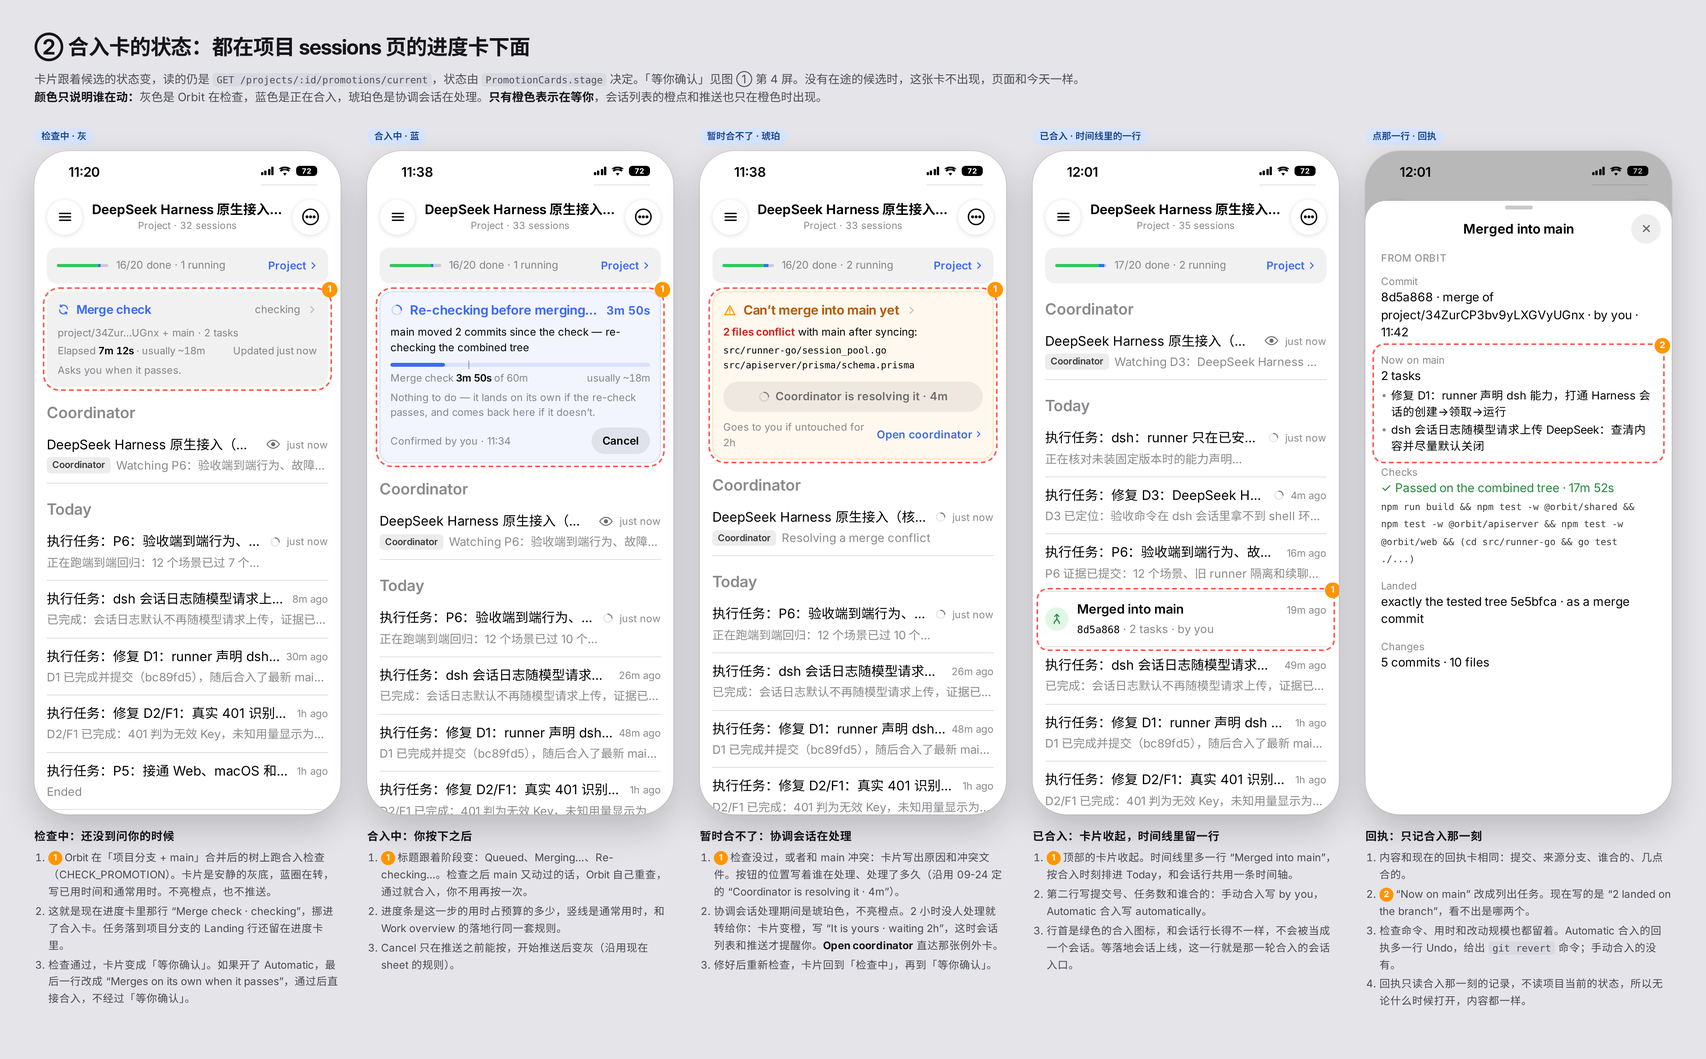
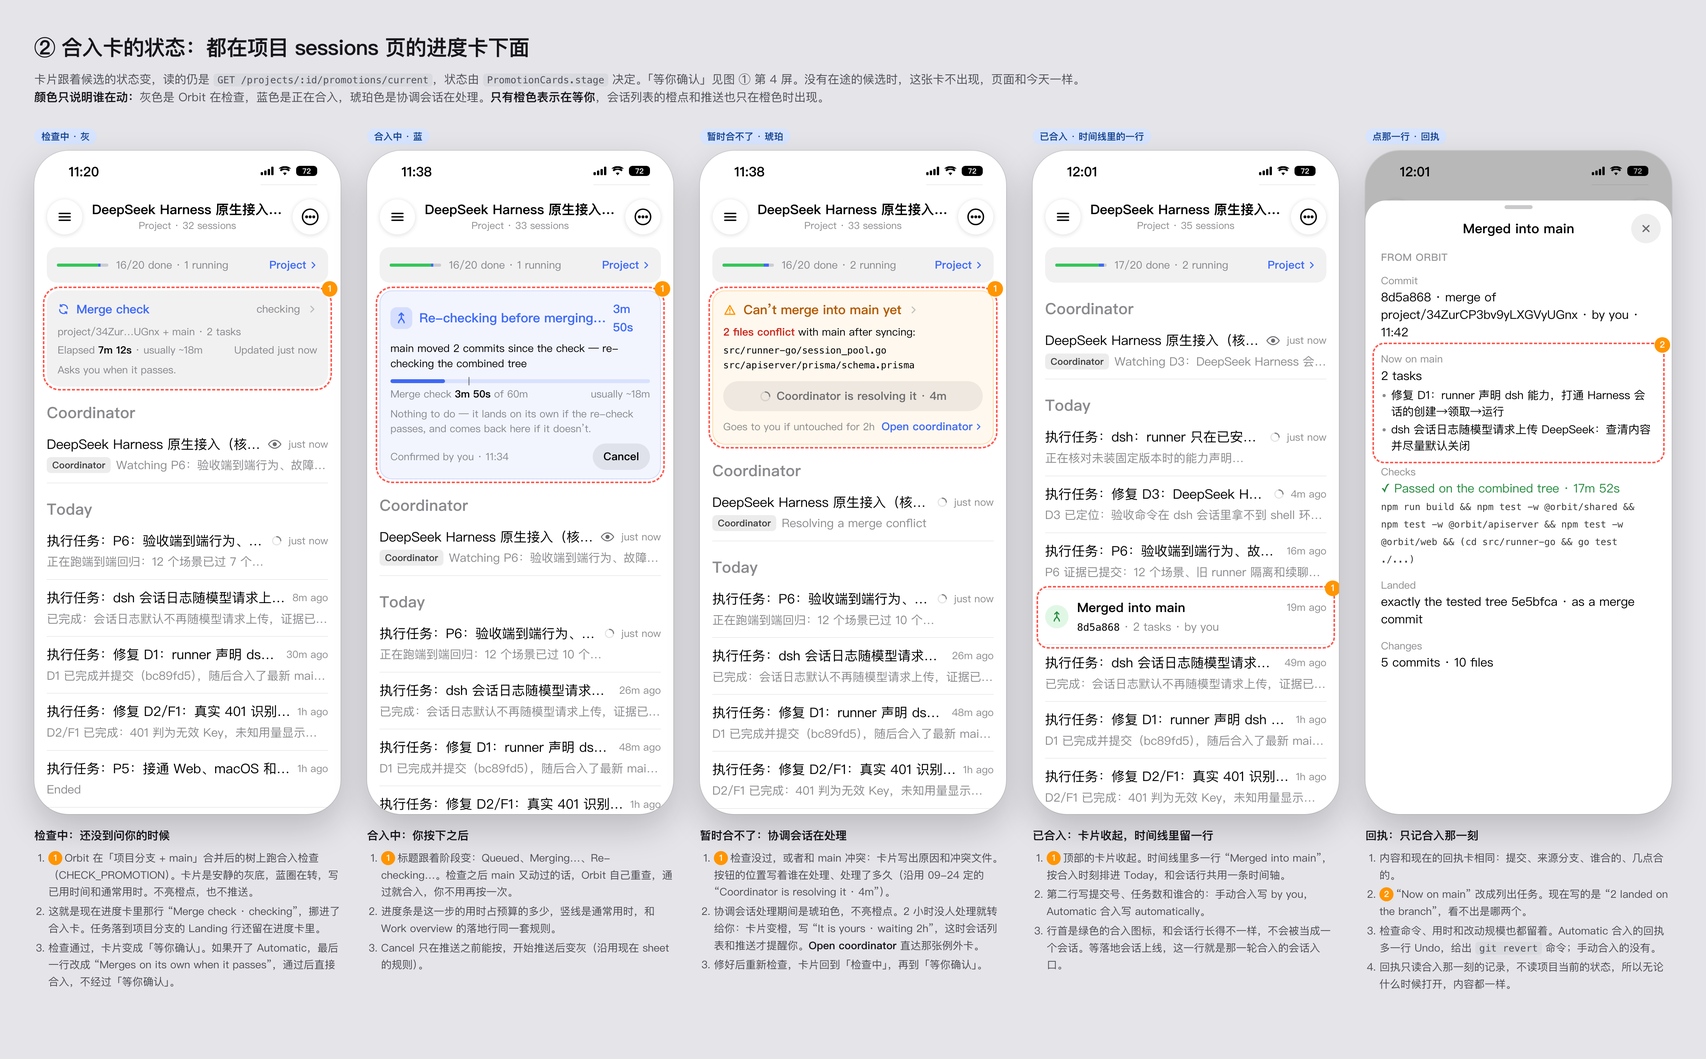
fix(ios,web): the merging card's head wears the merge mark, not a second spinner
The merging moment drew two spinning marks at once: `header(symbol: nil)` put SwiftUI's
`ProgressView` — UIKit's activity indicator on iOS — in the head, and the landing row below it drew
`ProjectLandingRow`'s arrowed ring, the project page's Integrating mark, turning at its own 1.6s.
Two spinners, two shapes, two speeds, forty points apart — and the head's said nothing the card was
not already saying three other ways: the title, `confirmed — fetching the branches`, and the row's
word beside `fetching`.

The head now wears what the asking and blocked moments wear — `arrow.triangle.merge` in the tint's
tile — so the card keeps one moving mark (the landing row's ring, which is also what the checking
moment is drawn from) and the head keeps one vocabulary across the card's four moments. `header`'s
spinner branch went with it: no caller passed `symbol: nil` any more. Web's `ProjectMergeStrip` gets
the same treatment, its merging head drawing the asking head's tile and `MergeGlyph`, with
`.is-merging` tinting the tile brand-blue rather than warning-orange.

Owner decision 2026-10-07, taken from `docs/mocks/project-merge-sessions-page/05-spinner-options.html`
(the four-way board; this is A). Board 02's merging card follows, and
`SessionProjectPageWiringTests.testTheMergingCardsHeadCarriesTheMergeMarkRatherThanASpinner` pins it.

diff --git a/docs/mocks/project-merge-sessions-page/05-spinner-options.html b/docs/mocks/project-merge-sessions-page/05-spinner-options.html
@@ -1,0 +1,158 @@
+<!doctype html><html lang="zh"><meta charset="utf-8">
+<title>合入卡的转圈：四种改法</title>
+<style>
+/* 2026-10-07 · 「合入卡上两个转圈」的候选改法。深色，与 iOS 截图同一套颜色。
+   这一页刻意不依赖 kit.css：它要画的是 iOS 上的暗色卡，不是浅色图板。 */
+:root {
+  --accent: #5B8CFF; --accent-bg: rgba(91,140,255,.16);
+  --label: #fff; --l2: rgba(235,235,245,.6); --l3: rgba(235,235,245,.32);
+  --card: #0F1626; --line: rgba(91,140,255,.34); --panel: #0A0A0C;
+}
+* { box-sizing: border-box; }
+body { margin: 0; padding: 36px 40px 64px; background: var(--panel); color: var(--label); width: max-content;
+       font: 15px/1.55 -apple-system, "SF Pro Text", "Noto Sans SC", sans-serif; -webkit-font-smoothing: antialiased; }
+h1 { font-size: 25px; letter-spacing: -.02em; margin: 0 0 8px; }
+.lede { color: var(--l2); margin: 0 0 30px; max-width: 1500px; font-size: 15px; }
+.lede b { color: var(--label); }
+code { font: 12.5px ui-monospace, "SF Mono", monospace; background: rgba(235,235,245,.12); border-radius: 4px; padding: 1px 5px; }
+.row { display: flex; gap: 30px; align-items: flex-start; }
+
+/* ── 卡（与 iOS ProjectMergeCardView 的合入时刻同构） ───────── */
+.card { width: 340px; border-radius: 14px; padding: 12px; background: var(--card);
+        box-shadow: inset 0 0 0 1px var(--line); }
+.head { display: flex; align-items: center; gap: 8px; }
+.head .tile { width: 26px; height: 26px; border-radius: 7px; background: var(--accent-bg); color: var(--accent);
+              display: flex; align-items: center; justify-content: center; flex: none; }
+.head .slot { width: 26px; height: 26px; display: flex; align-items: center; justify-content: center; flex: none; }
+.head h2 { font-size: 16.5px; font-weight: 700; letter-spacing: -.01em; color: var(--accent); margin: 0; white-space: nowrap; }
+.status { font-size: 14px; color: var(--label); margin: 7px 0 0; }
+.lrow { margin-top: 9px; }
+.lrow .top { display: flex; align-items: center; gap: 8px; }
+.lrow .word { font-size: 13.5px; font-weight: 650; color: var(--accent); }
+.lrow .state { font-size: 12.5px; color: var(--l2); margin-left: auto; }
+.lrow .meta { display: flex; align-items: center; font-size: 12.5px; color: var(--l2); margin-top: 5px;
+              font-variant-numeric: tabular-nums; }
+.lrow .meta b { color: var(--accent); font-weight: 650; }
+.lrow .meta .u { margin-left: auto; }
+.note { font-size: 12.5px; color: var(--l2); margin-top: 8px; line-height: 1.45; }
+.foot { display: flex; justify-content: flex-end; margin-top: 11px; }
+.cancel { font-size: 14px; font-weight: 600; color: var(--accent); background: rgba(235,235,245,.14);
+          border-radius: 999px; padding: 7px 18px; }
+.dim { opacity: .45; }
+
+/* ── 图形与动效 ───────────────────────────────────────────── */
+svg.i { fill: none; stroke: currentColor; stroke-linecap: round; stroke-linejoin: round; display: block; flex: none; }
+/* 行内 spinner（SpinnerGlyph）：¾ 弧，0.85s 一圈 —— 会话行的「在跑」就是这个 */
+.arc { animation: spin .85s linear infinite; transform-origin: 50% 50%; }
+/* 项目页 Integrating 的环（arrow.triangle.2.circlepath）：1.6s 一圈 */
+.ring-run { animation: spin 1.6s linear infinite; transform-origin: 50% 50%; }
+@keyframes spin { to { transform: rotate(360deg); } }
+/* 系统的辐条转圈（UIActivityIndicatorView）：iOS 上 ProgressView 的样子 */
+.spokes { animation: spin 1s steps(12) infinite; transform-origin: 50% 50%; }
+@media (prefers-reduced-motion: reduce) { .arc, .ring-run, .spokes { animation: none; } }
+
+/* ── 图注 ─────────────────────────────────────────────────── */
+figure { margin: 0; width: 340px; flex: none; }
+.tag { display: inline-block; font-size: 12px; font-weight: 600; border-radius: 999px; padding: 1px 9px; margin-bottom: 9px; }
+.tag.pick { background: #14428f; color: #cfe0ff; }
+.tag.alt { background: rgba(235,235,245,.14); color: var(--l2); }
+.tag.now { background: #5c1a14; color: #ffb4ab; }
+figcaption { margin-top: 14px; font-size: 13px; line-height: 1.6; color: var(--l2); }
+figcaption > b { color: var(--label); display: block; font-size: 14.5px; margin-bottom: 5px; }
+figcaption ul { margin: 6px 0 0; padding-left: 17px; }
+figcaption li { margin: 3px 0; }
+figcaption li b { color: var(--label); }
+h3 { font-size: 17px; margin: 38px 0 14px; letter-spacing: -.01em; }
+.moment { display: flex; gap: 26px; align-items: flex-start; }
+.mini { width: 250px; }
+.mini .cap { font-size: 12.5px; color: var(--l2); margin-bottom: 8px; }
+</style>
+<body>
+<h1>合入卡的两个转圈：四种改法</h1>
+<p class="lede">
+每张图都是同一个时刻：<b>你按下 Merge to main 之后，runner 在 FETCH（fetching the branches）</b>。四张卡的内容一字不差，只有「谁在转、转的是哪个图形」不同。动效是真的在动（<code>0.85s</code> 是会话行那支弧，<code>1.6s</code> 是项目页 Integrating 的环，系统辐条是 <code>1s</code> 分十二档）。</p>
+
+<h3>先看这张卡在今天长什么样：四个时刻的头部</h3>
+<div class="moment">
+  <div class="mini"><div class="cap">asking —— 有色方块 + 静态图标</div>
+    <div class="card" style="box-shadow:inset 0 0 0 1px rgba(255,149,0,.35)">
+      <div class="head"><span class="tile" style="background:rgba(255,149,0,.16);color:#FF9500">
+        <svg class="i" viewBox="0 0 24 24" style="width:17px;height:17px;stroke-width:2.2"><path d="M8 7l4-4 4 4"/><path d="M12 3v8"/><path d="M12 11c0 3.5-5 4.5-5 9.5"/><path d="M12 11c0 3.5 5 4.5 5 9.5"/></svg></span>
+        <h2 style="color:#FFB340">Merge into main?</h2></div></div></div>
+  <div class="mini"><div class="cap">merging —— <b style="color:#ffb4ab">裸的系统转圈</b>（今天）</div>
+    <div class="card">
+      <div class="head"><span class="slot">
+        <svg class="i spokes" viewBox="0 0 24 24" style="width:19px;height:19px;stroke-width:2"><circle cx="12" cy="12" r="1.6" fill="currentColor" stroke="none"/><g stroke="none" fill="currentColor">
+          <rect x="11" y="1.5" width="2" height="5.6" rx="1" opacity="1"/><rect x="11" y="1.5" width="2" height="5.6" rx="1" opacity=".82" transform="rotate(30 12 12)"/><rect x="11" y="1.5" width="2" height="5.6" rx="1" opacity=".68" transform="rotate(60 12 12)"/><rect x="11" y="1.5" width="2" height="5.6" rx="1" opacity=".55" transform="rotate(90 12 12)"/><rect x="11" y="1.5" width="2" height="5.6" rx="1" opacity=".45" transform="rotate(120 12 12)"/><rect x="11" y="1.5" width="2" height="5.6" rx="1" opacity=".38" transform="rotate(150 12 12)"/><rect x="11" y="1.5" width="2" height="5.6" rx="1" opacity=".32" transform="rotate(180 12 12)"/><rect x="11" y="1.5" width="2" height="5.6" rx="1" opacity=".26" transform="rotate(210 12 12)"/><rect x="11" y="1.5" width="2" height="5.6" rx="1" opacity=".21" transform="rotate(240 12 12)"/><rect x="11" y="1.5" width="2" height="5.6" rx="1" opacity=".17" transform="rotate(270 12 12)"/><rect x="11" y="1.5" width="2" height="5.6" rx="1" opacity=".13" transform="rotate(300 12 12)"/><rect x="11" y="1.5" width="2" height="5.6" rx="1" opacity=".1" transform="rotate(330 12 12)"/></g></svg></span>
+        <h2>Merging into main…</h2></div></div></div>
+  <div class="mini"><div class="cap">blocked —— 有色方块 + 静态图标</div>
+    <div class="card" style="box-shadow:inset 0 0 0 1px rgba(255,149,0,.35)">
+      <div class="head"><span class="tile" style="background:rgba(255,149,0,.16);color:#FF9500">
+        <svg class="i" viewBox="0 0 24 24" style="width:17px;height:17px;stroke-width:2.2"><path d="M12 4l9 16H3z"/><path d="M12 10v4M12 17v.5"/></svg></span>
+        <h2 style="color:#FFB340">Can’t merge into main yet</h2></div></div></div>
+  <div class="mini"><div class="cap">checking —— 没有头部，只有落地行</div>
+    <div class="card">
+      <div class="lrow" style="margin-top:0">
+        <div class="top">
+          <svg class="i ring-run" viewBox="0 0 24 24" style="width:13px;height:13px;stroke-width:2.3;color:var(--accent)"><path d="M20 11a8 8 0 0 0-14.3-4.9"/><path d="M5.5 2.8v3.5H9"/><path d="M4 13a8 8 0 0 0 14.3 4.9"/><path d="M18.5 21.2v-3.5H15"/></svg>
+          <span class="word">Merge check</span><span class="state">checking</span></div>
+        <div class="meta"><span>Elapsed <b>7m 12s</b></span><span class="u">Updated just now</span></div></div></div></div>
+</div>
+
+<h3>四种改法（同一时刻，同一内容）</h3>
+<div class="row" id="figs"></div>
+
+<script>
+const CARD = (opts) => `<div class="card">
+  <div class="head">${opts.head}<h2>Merging into main…</h2></div>
+  <p class="status">confirmed — fetching the branches</p>
+  <div class="lrow"><div class="top">${opts.rowIcon}<span class="word">Merge to main</span><span class="state">fetching</span></div>
+    <div class="meta"><span>Elapsed <b>0m 14s</b></span><span class="u">Updated just now</span></div></div>
+  <p class="note">Nothing to do — it lands on its own if the re-check passes, and comes back here if it doesn’t.</p>
+  <div class="foot"><span class="cancel">Cancel</span></div></div>`;
+
+const MERGE = (s = 17, c = 'var(--accent)') => `<svg class="i" viewBox="0 0 24 24" style="width:${s}px;height:${s}px;stroke-width:2.2;color:${c}"><path d="M8 7l4-4 4 4"/><path d="M12 3v8"/><path d="M12 11c0 3.5-5 4.5-5 9.5"/><path d="M12 11c0 3.5 5 4.5 5 9.5"/></svg>`;
+const RING = (cls, c = 'var(--accent)') => `<svg class="i ${cls}" viewBox="0 0 24 24" style="width:13px;height:13px;stroke-width:2.3;color:${c}"><path d="M20 11a8 8 0 0 0-14.3-4.9"/><path d="M5.5 2.8v3.5H9"/><path d="M4 13a8 8 0 0 0 14.3 4.9"/><path d="M18.5 21.2v-3.5H15"/></svg>`;
+const ARC = (s = 19) => `<svg class="i arc" viewBox="0 0 24 24" style="width:${s}px;height:${s}px;stroke-width:2.2;color:var(--accent)"><circle cx="12" cy="12" r="9" stroke-opacity=".22"/><path d="M12 3a9 9 0 0 1 9 9"/></svg>`;
+const TILE = (inner) => `<span class="tile">${inner}</span>`;
+const SLOT = (inner) => `<span class="slot">${inner}</span>`;
+
+const options = [
+  { tag: 'pick', label: '方案 A · 推荐', title: '头部换回静态的合入图标，只留行里那个环',
+    card: CARD({ head: TILE(MERGE()), rowIcon: RING('ring-run') }),
+    cap: `<ul>
+      <li>头部回到和 asking / blocked 同一套：<b>有色方块 + 静态 SF Symbol</b>，整张卡在四个时刻之间切换时，头部形状不变、语言不变。</li>
+      <li>全卡<b>只有一个转圈</b>，就是项目页 Integrating 的那个环 —— 它旁边写着 <code>fetching</code>，转的同时说明"哪个作业、到哪一步"，不是空转。</li>
+      <li>checking 时刻这张卡本来就只有这一行，环在 merging 时刻继续转，视觉上是同一件东西在往前走。</li>
+      <li>代价：服务器还没报出 merge 作业的那一小段（<code>mergeLandingLine</code> 为 nil）行不画，这时头部是静态的，"在动"只剩 <code>Elapsed</code> 在走字。</li>
+    </ul>` },
+  { tag: 'alt', label: '方案 B', title: '头部留空，标题左对齐',
+    card: CARD({ head: '', rowIcon: RING('ring-run') }),
+    cap: `<ul>
+      <li>最省事的砍法，和 checking 时刻一致（那个时刻就没有头部）。</li>
+      <li>问题是标题的位置会跳：asking 有方块、merging 没有，<b>同一张卡的标题左右移动 34pt</b>，翻页时会看出来。</li>
+      <li>卡片头部少一个锚点，扫视时不好一眼认出这是合入卡。</li>
+    </ul>` },
+  { tag: 'alt', label: '方案 C', title: '头部换成会话行那支弧，行里的环改成不转',
+    card: CARD({ head: SLOT(ARC()), rowIcon: RING('', 'var(--l2)') }),
+    cap: `<ul>
+      <li>转的那支弧（<b>SpinnerGlyph</b>，0.85s）和会话列表里"正在跑"的行是同一个图形，全 app 的"在动"收敛到一支。</li>
+      <li>代价一：行的 <code>arrow.triangle.2.circlepath</code> 是项目页 Integrating 格子的标记，在项目页它转、在这里不转，同一个图形两种行为。</li>
+      <li>代价二：头部还是裸的，没有方块，仍是"这四个时刻里唯一一个不带方的"。</li>
+      <li>而且它和行里的环仍然<b>并排存在</b>，只是其中一个不动 —— 两个图形的对话没消失，只是少了一半动作。</li>
+    </ul>` },
+  { tag: 'now', label: '方案 D · 现状', title: '头部系统转圈 + 行里环转（不改）',
+    card: CARD({ head: SLOT(`<svg class="i spokes" viewBox="0 0 24 24" style="width:19px;height:19px;stroke-width:2;color:var(--accent)"><circle cx="12" cy="12" r="1.6" fill="currentColor" stroke="none"/><g stroke="none" fill="currentColor"><rect x="11" y="1.5" width="2" height="5.6" rx="1" opacity="1"/><rect x="11" y="1.5" width="2" height="5.6" rx="1" opacity=".82" transform="rotate(30 12 12)"/><rect x="11" y="1.5" width="2" height="5.6" rx="1" opacity=".68" transform="rotate(60 12 12)"/><rect x="11" y="1.5" width="2" height="5.6" rx="1" opacity=".55" transform="rotate(90 12 12)"/><rect x="11" y="1.5" width="2" height="5.6" rx="1" opacity=".45" transform="rotate(120 12 12)"/><rect x="11" y="1.5" width="2" height="5.6" rx="1" opacity=".38" transform="rotate(150 12 12)"/><rect x="11" y="1.5" width="2" height="5.6" rx="1" opacity=".32" transform="rotate(180 12 12)"/><rect x="11" y="1.5" width="2" height="5.6" rx="1" opacity=".26" transform="rotate(210 12 12)"/><rect x="11" y="1.5" width="2" height="5.6" rx="1" opacity=".21" transform="rotate(240 12 12)"/><rect x="11" y="1.5" width="2" height="5.6" rx="1" opacity=".17" transform="rotate(270 12 12)"/><rect x="11" y="1.5" width="2" height="5.6" rx="1" opacity=".13" transform="rotate(300 12 12)"/><rect x="11" y="1.5" width="2" height="5.6" rx="1" opacity=".1" transform="rotate(330 12 12)"/></g></svg>`), rowIcon: RING('ring-run') }),
+    cap: `<ul>
+      <li>两个圈：系统的（1s、十二档跳）和项目页的环（1.6s、匀速），转速和质感都不一样，挨在 40pt 内。</li>
+      <li>头部那个是 <code>ProgressView</code>：本仓库的 <code>SpinnerGlyph</code> 注释写过它在 <code>List</code> 行 detach / reattach 之后会画成空白，而这张卡正是 List 的一行。</li>
+      <li>它没有多说一个字：标题、状态行、行里的 word + state、走字的 Elapsed 已经四处说了同一件事。</li>
+    </ul>` },
+];
+
+document.getElementById('figs').innerHTML = options.map((o) =>
+  `<figure><span class="tag ${o.tag}">${o.label}</span>${o.card}
+   <figcaption><b>${o.title}</b>${o.cap}</figcaption></figure>`).join('');
+</script>
+</body>
+</html>

diff --git a/src/macos/OrbitApp/Sources/OrbitApp/Views/SessionProjectPage.swift b/src/macos/OrbitApp/Sources/OrbitApp/Views/SessionProjectPage.swift
@@ -660,17 +660,13 @@ private struct ProjectMergeCardView: View {
         .padding(.vertical, 4)
     }
 
-    private func header(_ title: String, symbol: String?, badge: String? = nil) -> some View {
+    private func header(_ title: String, symbol: String, badge: String? = nil) -> some View {
         HStack(spacing: 8) {
-            if let symbol {
-                Image(systemName: symbol)
-                    .font(.orbitLabel.weight(.semibold))
-                    .foregroundStyle(tint)
-                    .frame(width: 26, height: 26)
-                    .background(tint.opacity(0.15), in: RoundedRectangle(cornerRadius: 7))
-            } else {
-                ProgressView().controlSize(.small).tint(tint)
-            }
+            Image(systemName: symbol)
+                .font(.orbitLabel.weight(.semibold))
+                .foregroundStyle(tint)
+                .frame(width: 26, height: 26)
+                .background(tint.opacity(0.15), in: RoundedRectangle(cornerRadius: 7))
             Text(title).font(.headline).foregroundStyle(shape == .asking ? Color.primary : tint)
                 .lineLimit(2)
             Spacer(minLength: 6)
@@ -727,8 +723,13 @@ private struct ProjectMergeCardView: View {
     }
 
     /// B: under way, and the reader may walk away; Cancel until the push begins.
+    ///
+    /// The head carries the same merge mark in its tile as A and D, rather than a spinner (owner
+    /// decision 2026-10-07): the card has one moving mark and it is the landing row's ring — the
+    /// project page's Integrating mark, sitting beside the word `fetching`. A spinner here said
+    /// "work is happening" a fourth time, in a mark neither this card nor this app uses elsewhere.
     @ViewBuilder private func merging(_ view: ProjectPromotionView) -> some View {
-        header(PromotionCards.pageTitle(view), symbol: nil)
+        header(PromotionCards.pageTitle(view), symbol: "arrow.triangle.merge")
         Text(PromotionCards.mergingStatusLine(view)).font(.orbitLabel)
         if let landing { ProjectLandingRow(line: landing) }
         Text(PromotionCards.pageNothingToDo).font(.orbitMeta).foregroundStyle(.secondary)

diff --git a/src/macos/OrbitKit/Tests/OrbitKitTests/SessionProjectPageWiringTests.swift b/src/macos/OrbitKit/Tests/OrbitKitTests/SessionProjectPageWiringTests.swift
@@ -445,6 +445,18 @@ final class SessionProjectPageWiringTests: XCTestCase {
         XCTAssertTrue(banner.contains("return openProjectSessions(projectID, inColumn: projectInColumn)"))
     }
 
+    /// The merge card has one moving mark, and it is the landing row's ring — the project page's
+    /// Integrating mark, beside the word `fetching`. The merging head wears the same tile and merge
+    /// mark as the asking card rather than a spinner (owner decision 2026-10-07): a spinner there
+    /// said "work is happening" a fourth time, in a mark neither this card nor this app uses.
+    func testTheMergingCardsHeadCarriesTheMergeMarkRatherThanASpinner() throws {
+        let page = code(try appSource("Views/SessionProjectPage.swift"))
+        let merging = try slice(page, from: "@ViewBuilder private func merging(_ view: ProjectPromotionView) -> some View {",
+                                to: "\n    }\n")
+        XCTAssertTrue(merging.contains("header(PromotionCards.pageTitle(view), symbol: \"arrow.triangle.merge\")"))
+        XCTAssertFalse(merging.contains("ProgressView"), "the landing row below is this card's moving mark")
+    }
+
     /// A read that failed with no rows in hand says why in one sentence, with Retry, and stays up
     /// through the page's 4-second polls rather than blinking out while each one is in flight.
     func testAFailedReadStaysUpWithItsReasonAndRetry() throws {

diff --git a/docs/mocks/project-merge-sessions-page/kit.js b/docs/mocks/project-merge-sessions-page/kit.js
@@ -56,7 +56,9 @@ const cardAsk = ({ asked = '2m' } = {}) => `<div class="mc ask"><div class="mh">
 <div class="cr">8 of 10 met on this branch — merging does not close the project</div>
 <div class="acts"><span class="btn pri grow">Merge to main</span><span class="btn sec">Not now</span></div>
 <div class="foot"><span>asked ${asked} ago</span><span class="lnk">Details ${ic('chevr', 11, 'var(--tint)', 2.8)}</span></div></div>`;
-const cardMerging = () => `<div class="mc run"><div class="mh">${spinner('var(--tint)', 16)}<b>Re-checking before merging…</b><span class="clk">3m 50s</span></div>
+/* 头部与 asking 同一套：有色方块 + 静态合入图标，不是转圈（owner 10-07 决定；这张卡只有一个动的
+   标记，就是下面落地行里的那个环）。改法见 05-spinner-options.html。 */
+const cardMerging = () => `<div class="mc run"><div class="mh"><span class="tile" style="background:rgba(62,105,246,.16);color:var(--tint)">${ic('merge', 17, 'var(--tint)', 2.3)}</span><b>Re-checking before merging…</b><span class="clk">3m 50s</span></div>
 <div class="st">main moved 2 commits since the check — re-checking the combined tree</div>
 <div class="bud"><i style="width:21%"></i><u style="left:30%"></u></div>
 <div class="ln"><span>Merge check <b>3m 50s</b> of 60m</span><span class="u">usually ~18m</span></div>

diff --git a/src/web/src/index.css b/src/web/src/index.css
@@ -5150,6 +5150,12 @@ html[data-theme='dark'] .session-tag-chip {
   background: color-mix(in srgb, var(--warning-solid) 16%, transparent);
   color: var(--warning-solid);
 }
+/* The merging head wears the same mark as the asking one, in the merging card's own colour: the
+   card's single moving mark is the landing row's ring (owner decision 2026-10-07). */
+.session-project-merge.is-merging .session-project-merge-tile {
+  background: color-mix(in srgb, var(--brand) 16%, transparent);
+  color: var(--brand);
+}
 .session-project-merge-rule {
   height: 1px;
   margin: 2px 0;

diff --git a/src/web/src/components/ProjectMergeStrip.tsx b/src/web/src/components/ProjectMergeStrip.tsx
@@ -160,7 +160,7 @@ export function ProjectMergeStrip({
       {shape === 'merging' && current ? (
         <>
           <div className="session-project-merge-head">
-            <span className="promotion-spin" aria-hidden="true" />
+            <span className="session-project-merge-tile"><MergeGlyph /></span>
             <span className="session-project-merge-title">{promotionPageTitle(current)}</span>
           </div>
           <div className="session-project-merge-status">{promotionMergingStatus(current)}</div>
